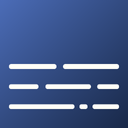
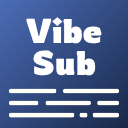
1.2 发布前优化

diff --git a/popup.js b/popup.js
@@ -375,7 +375,7 @@ document.addEventListener('DOMContentLoaded', async () => {
         
         // 恢复按钮状态
         translateBtn.disabled = false;
-        translateBtn.innerHTML = '<span class="submit-icon icon"><i class="fas fa-language"></i></span>翻译字幕';
+        translateBtn.innerHTML = '<span class="submit-icon icon"><i class="fas fa-language"></i></span>开始翻译';
       }
       
     } catch (error) {
@@ -384,7 +384,7 @@ document.addEventListener('DOMContentLoaded', async () => {
       
       // 恢复按钮状态
       translateBtn.disabled = false;
-      translateBtn.innerHTML = '<span class="submit-icon icon"><i class="fas fa-language"></i></span>翻译字幕';
+      translateBtn.innerHTML = '<span class="submit-icon icon"><i class="fas fa-language"></i></span>开始翻译';
     }
   }
   
@@ -427,7 +427,7 @@ document.addEventListener('DOMContentLoaded', async () => {
               updateProgress(0, message.errorMessage || '翻译失败');
               // 失败的任务显示错误状态
               translateBtn.disabled = false;
-              translateBtn.innerHTML = '<span class="submit-icon icon"><i class="fas fa-language"></i></span>翻译字幕';
+              translateBtn.innerHTML = '<span class="submit-icon icon"><i class="fas fa-language"></i></span>开始翻译';
             }
           }
         }
@@ -513,7 +513,7 @@ document.addEventListener('DOMContentLoaded', async () => {
           updateProgress(0, taskStatus.errorMessage || '翻译失败');
           // 按钮可点击，允许重试
           translateBtn.disabled = false;
-          translateBtn.innerHTML = '<span class="submit-icon icon"><i class="fas fa-language"></i></span>翻译字幕';
+          translateBtn.innerHTML = '<span class="submit-icon icon"><i class="fas fa-language"></i></span>开始翻译';
         } else {
           // 进行中的任务，询问后台当前状态
           updateProgress(taskStatus.progress || 0, getStatusText(taskStatus.status));

diff --git a/popup.html b/popup.html
@@ -7,8 +7,8 @@
   <link rel="stylesheet" href="https://cdnjs.cloudflare.com/ajax/libs/font-awesome/6.4.0/css/all.min.css">
   <style>
     :root {
-      --primary-color: #8c52ff;
-      --primary-hover: #7a45e6;
+      --primary-color: #4b6cb7;
+      --primary-hover: #182848;
       --bg-color: #f8f9fa;
       --text-color: #333;
       --border-color: #e0e0e0;
@@ -439,7 +439,7 @@
 <body>
   <div class="container">
     <div class="header">
-      <img src="icons/icon128-3.png" alt="Tube Trans Logo" class="logo">
+      <img src="icons/icon128.png" alt="Tube Trans Logo" class="logo">
       <h1 class="title">VibeSub</h1>
       <div id="login-status" class="login-status">
         <a href="#" id="login-link" class="login-link">
@@ -499,7 +499,7 @@
       </div>
       
       <button id="translate-btn" class="submit-btn">
-        <span class="submit-icon icon"><i class="fas fa-language"></i></span>翻译字幕
+        <span class="submit-icon icon"><i class="fas fa-language"></i></span>开始翻译
       </button>
       
       <!-- 仅开发测试使用的按钮

diff --git a/popup-1.js b/popup-1.js
@@ -303,7 +303,7 @@ document.addEventListener('DOMContentLoaded', async () => {
       
       // 恢复按钮状态
       translateBtn.disabled = false;
-      translateBtn.innerHTML = '<span class="submit-icon icon"><i class="fas fa-language"></i></span>翻译字幕';
+      translateBtn.innerHTML = '<span class="submit-icon icon"><i class="fas fa-language"></i></span>开始翻译';
     }
   }
   
@@ -345,7 +345,7 @@ document.addEventListener('DOMContentLoaded', async () => {
             // 失败的任务
             updateProgress(0, '翻译失败');
             translateBtn.disabled = false;
-            translateBtn.innerHTML = '<span class="submit-icon icon"><i class="fas fa-language"></i></span>翻译字幕';
+            translateBtn.innerHTML = '<span class="submit-icon icon"><i class="fas fa-language"></i></span>开始翻译';
           } else {
             // 进行中的任务
             updateProgress(taskStatus.progress || 0, getStatusText(taskStatus.status));

diff --git a/content.js b/content.js
@@ -479,7 +479,7 @@ chrome.runtime.onMessage.addListener((message, sender, sendResponse) => {
     return true; // 保持消息通道开放，以便异步响应
   }
   
-  // 处理翻译字幕请求 (兼容旧版本)
+  // 处理开始翻译请求 (兼容旧版本)
   if (message.action === 'translateSubtitles') {
     // 显示翻译中状态
     showTranslationStatus('请使用新版翻译功能', false);

diff --git a/readme.md b/readme.md
@@ -1,20 +1,6 @@
-# Tube Trans - AI精翻字幕
+# VibeSub - YouTube字幕翻译
 
 一个利用LLM进行YouTube视频字幕翻译的Chrome扩展程序。
-
-## 开发日志
-
-### v1.4 - 2025.4.17
-- 构建任务是增加model参数，将gpt4.1 mini作为默认模型
-- 将状态轮询等功能移至后台进行
-
-### v1.2 - 2025.3.27
-开发完成基础流程，包括：
-- 与服务端交互
-- 自动加载字幕
-- 提供翻译设置
-- 显示翻译进度
-
 
 ## 功能特点
 
@@ -24,22 +10,3 @@
 - 自动保存和加载已翻译的字幕文件
 - 实时显示翻译进度
 - 与YouTube播放器完美集成
-
-## 插件使用方法
-
-1. 在YouTube视频页面点击插件图标
-2. 设置翻译选项：
-   - 选择翻译模型
-   - 输入自定义Prompt(可选)
-   - 输入专有术语列表(可选)
-   - 选择目标语言
-3. 点击"翻译字幕"按钮
-4. 等待翻译完成，进度会实时显示
-5. 翻译完成后字幕会自动应用到视频
-6. 下次访问同一视频时会自动加载已翻译的字幕
-
-## 技术实现
-
-- 使用Chrome扩展API与远程翻译服务交互
-- 实现本地字幕文件存储和加载
-- 自定义字幕显示引擎，支持精确定位和样式控制
